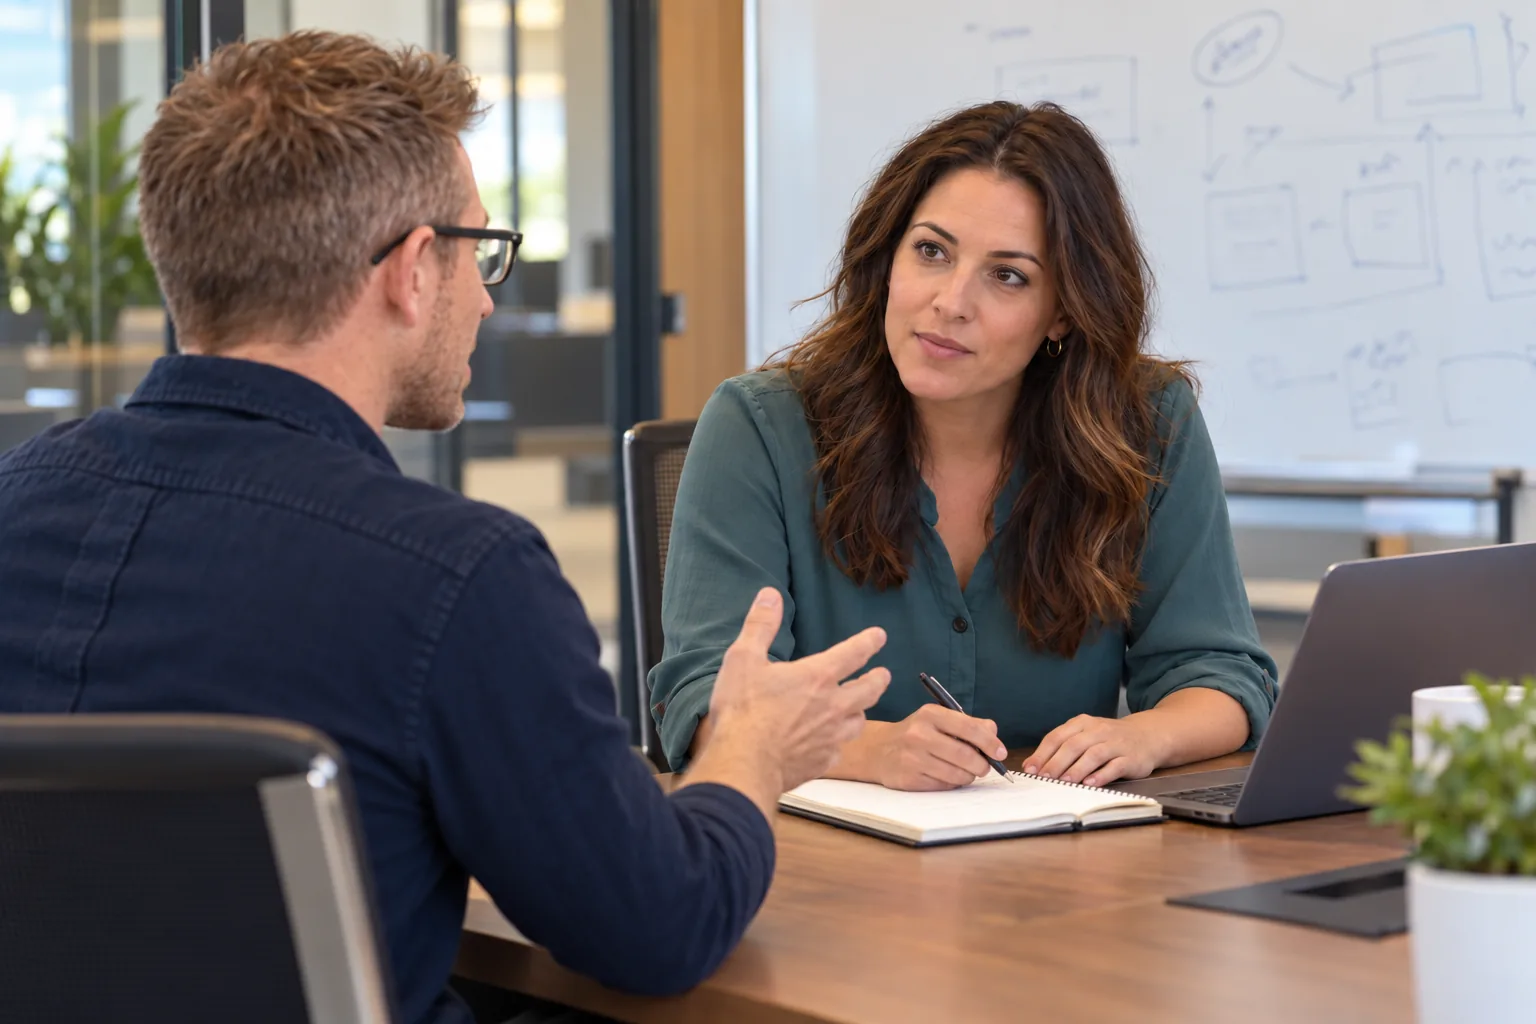
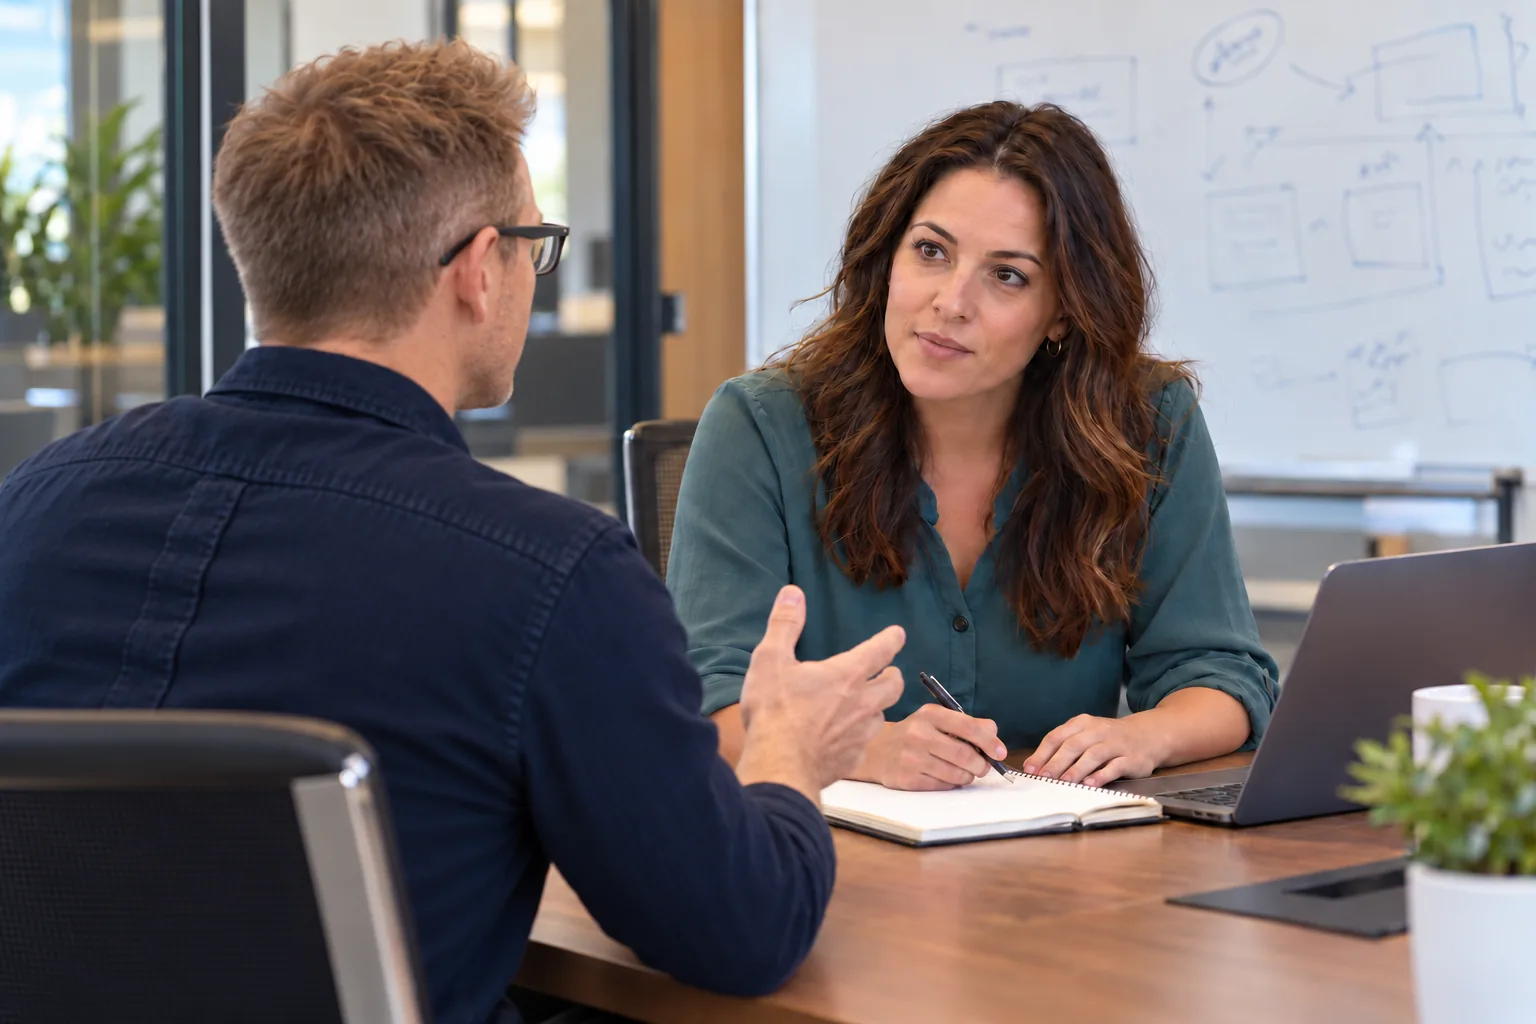
Lendio part 2: update the 1:1 photo in the craft section
Claude-Session: https://claude.ai/code/session_01AP2BEnHoY9LqUFyebDbteR

diff --git a/public/bio/lendio2/index.html b/public/bio/lendio2/index.html
@@ -164,7 +164,7 @@
             <img src="/bio/photos/lendio2-craft-training.webp" alt="Adam Michaelson standing at the front of a conference room, gesturing as he trains a seated team, with a slide titled Outcomes on the screen behind him" width="1536" height="1024" loading="lazy" style="object-position: 50% 40%">
           </figure>
           <figure class="photo ph-2">
-            <img src="/bio/photos/lendio2-craft-1on1.webp" alt="Over Adam Michaelson’s shoulder as he talks one-on-one with a team member who listens and takes notes in a small conference room" width="1536" height="1024" loading="lazy" style="object-position: 50% 40%">
+            <img src="/bio/photos/lendio2-craft-1on1.webp?v=2" alt="Over Adam Michaelson’s shoulder as he talks one-on-one with a team member who listens and takes notes in a small conference room" width="1536" height="1024" loading="lazy" style="object-position: 50% 40%">
           </figure>
         </div>
           <p class="photo-note">Although Adam’s likeness has been used, the rest is AI generated.</p>
